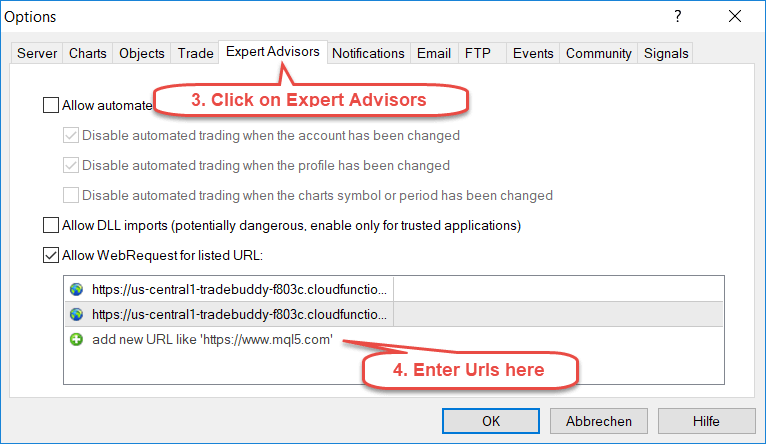
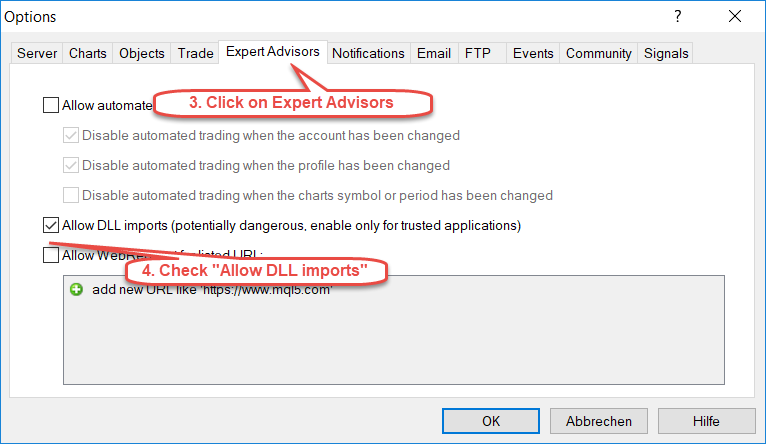
changed descrition because of the script update

Changed region(s): [[0.0601, 0.4977, 0.7807, 0.9077], [0.1802, 0.1464, 0.6305, 0.2928], [0.5104, 0.6734, 0.5405, 0.7027]]

diff --git a/lib/ui/instruction_ui.dart b/lib/ui/instruction_ui.dart
@@ -34,17 +34,13 @@ class Instruction extends StatelessWidget {
             style: TextStyle(fontSize: 20.0),
           ),
           Padding(padding: EdgeInsets.symmetric(vertical: 4.0)),
-          Text("To use the script it has to be able to send web requests."
+          Text("To use the script it has to be able to send web requests. "
               "In MT4 this has to be allowed first."
               "To do so follow these steps:"),
           Padding(padding: EdgeInsets.symmetric(vertical: 4.0)),
           Image.asset("images/instruction_options.png"),
           Divider(height: 50.0),
           Image.asset("images/instruction_expert_advisors.png"),
-          Padding(padding: EdgeInsets.symmetric(vertical: 4.0)),
-          Text("You have to add these two Urls:"
-              "\n\nhttps://us-central1-tradebuddy-f803c.cloudfunctions.net/loginUser"
-              "\n\nhttps://us-central1-tradebuddy-f803c.cloudfunctions.net/addTrade"),
           Padding(padding: EdgeInsets.symmetric(vertical: 4.0)),
           Text("Afterwards just double click on the TradeBuddyWeb script in "
               "the MT4 Navigator and enter your login credentials. The script "
